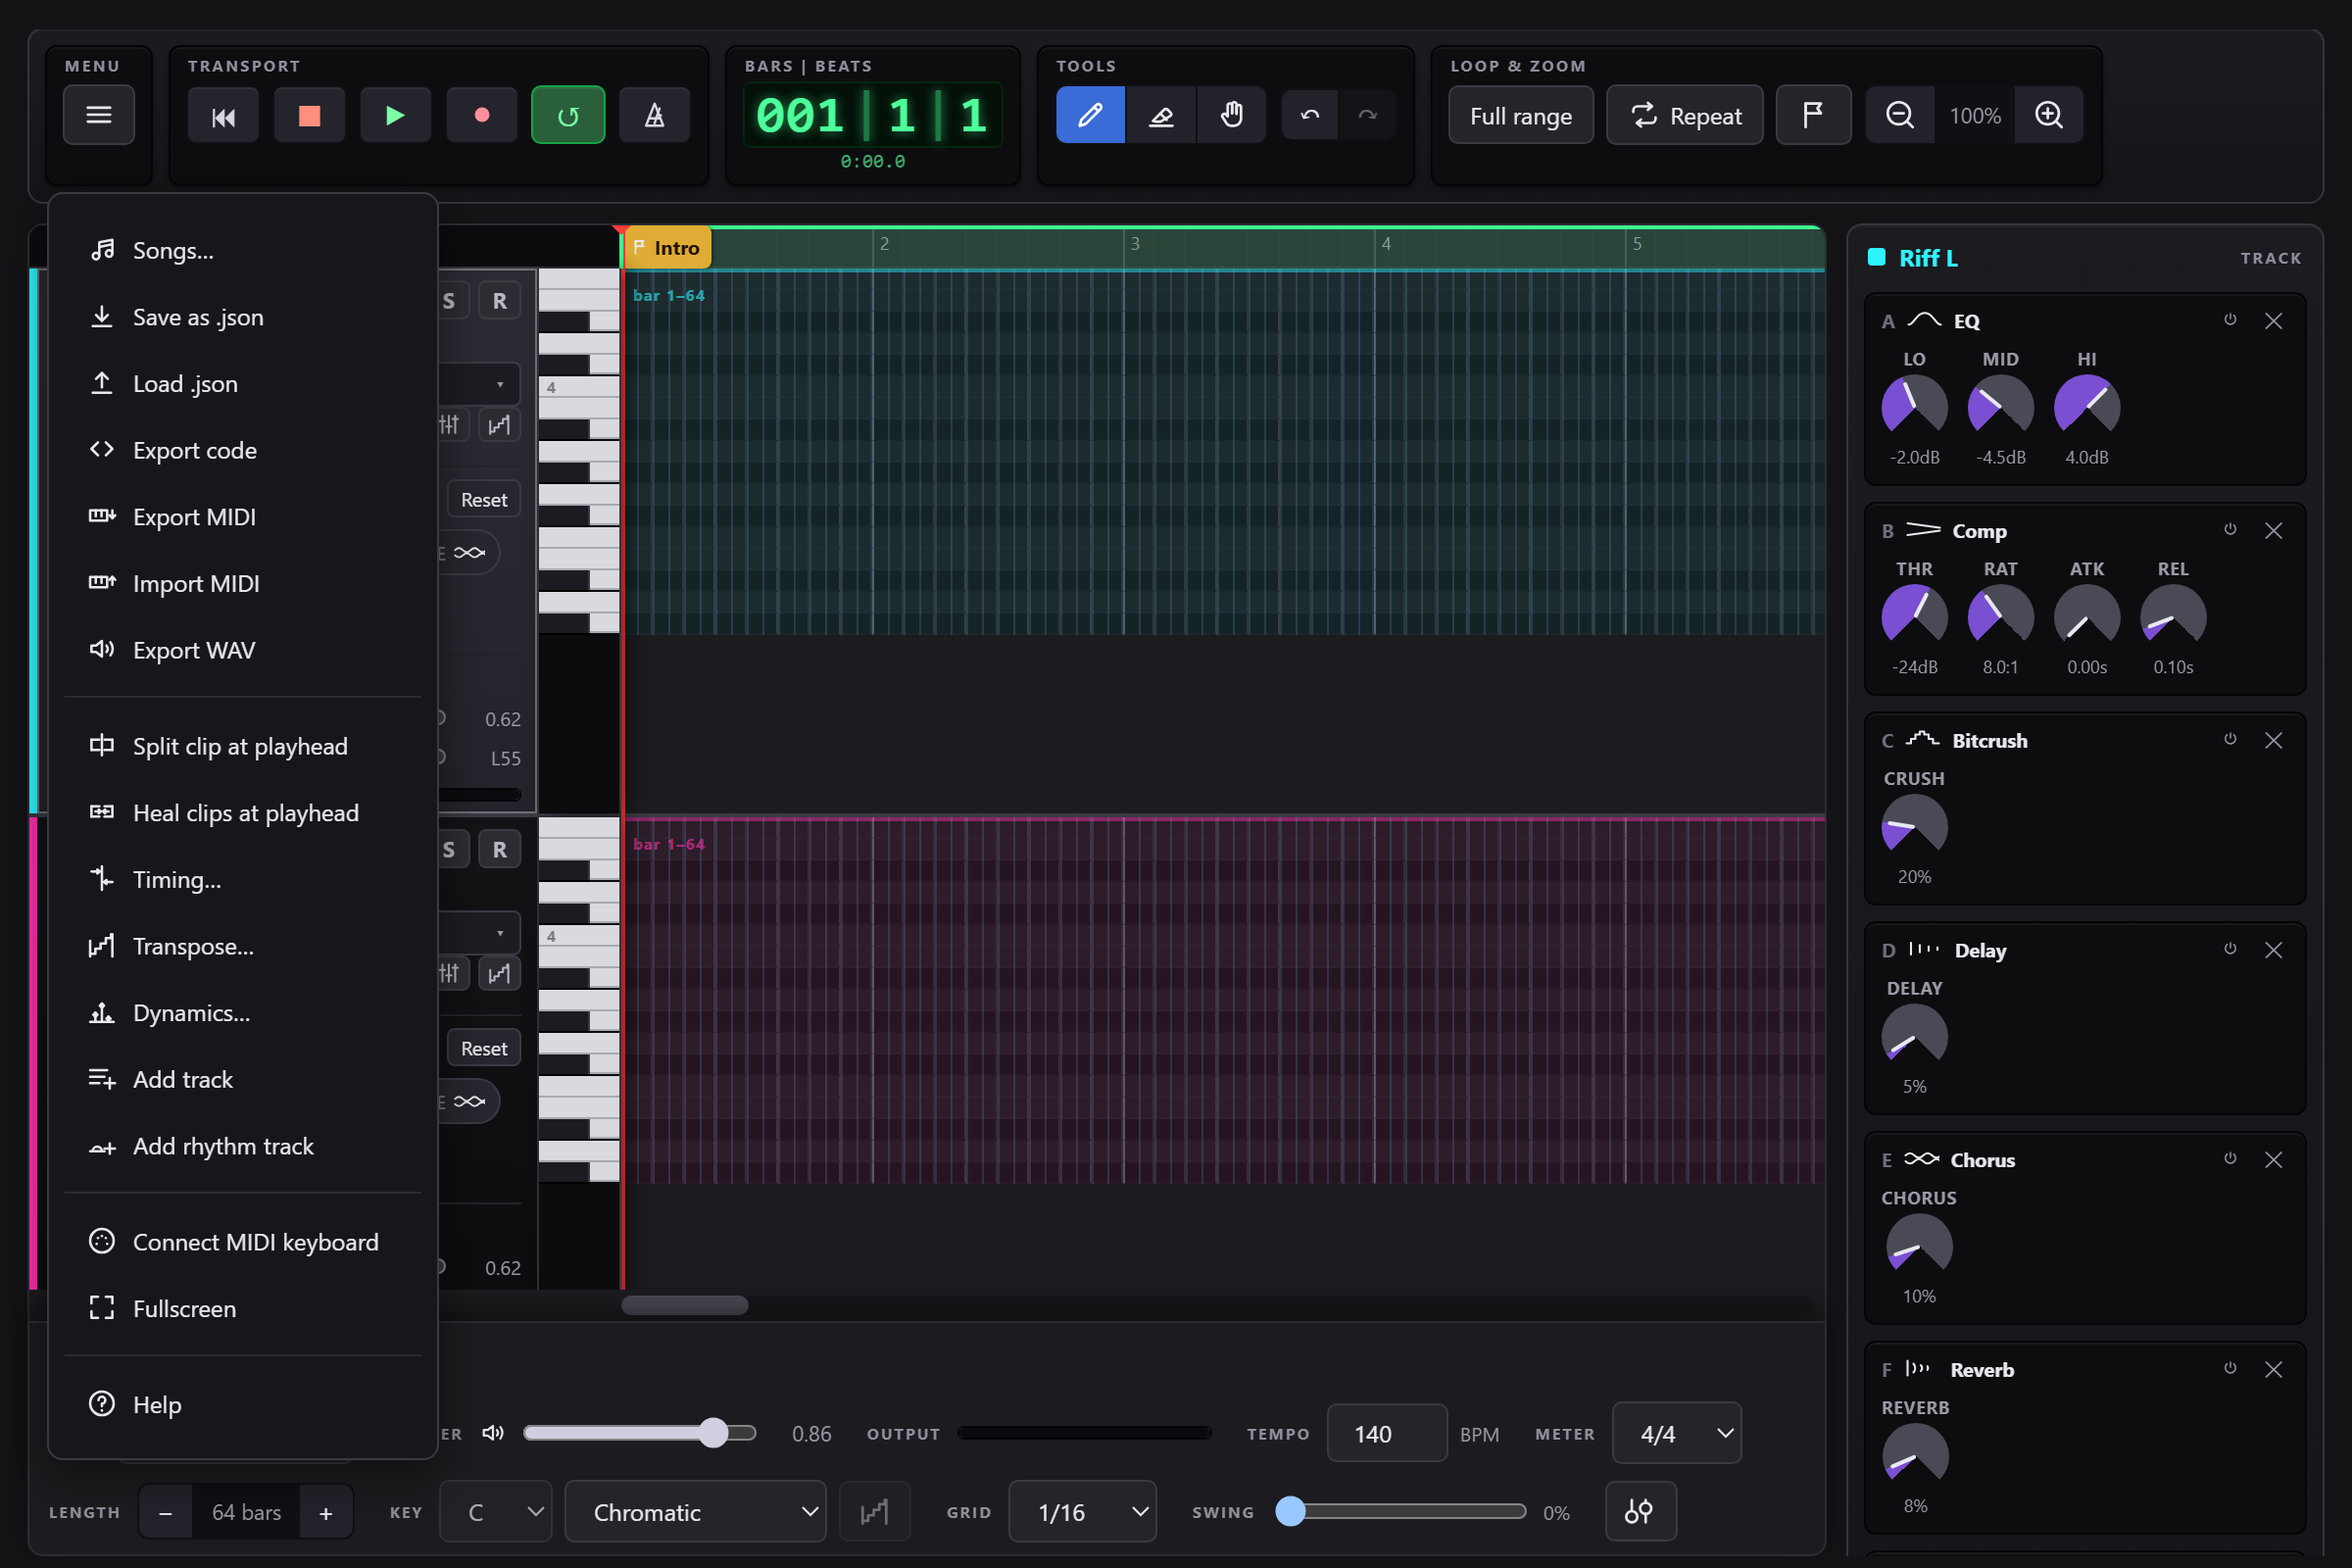
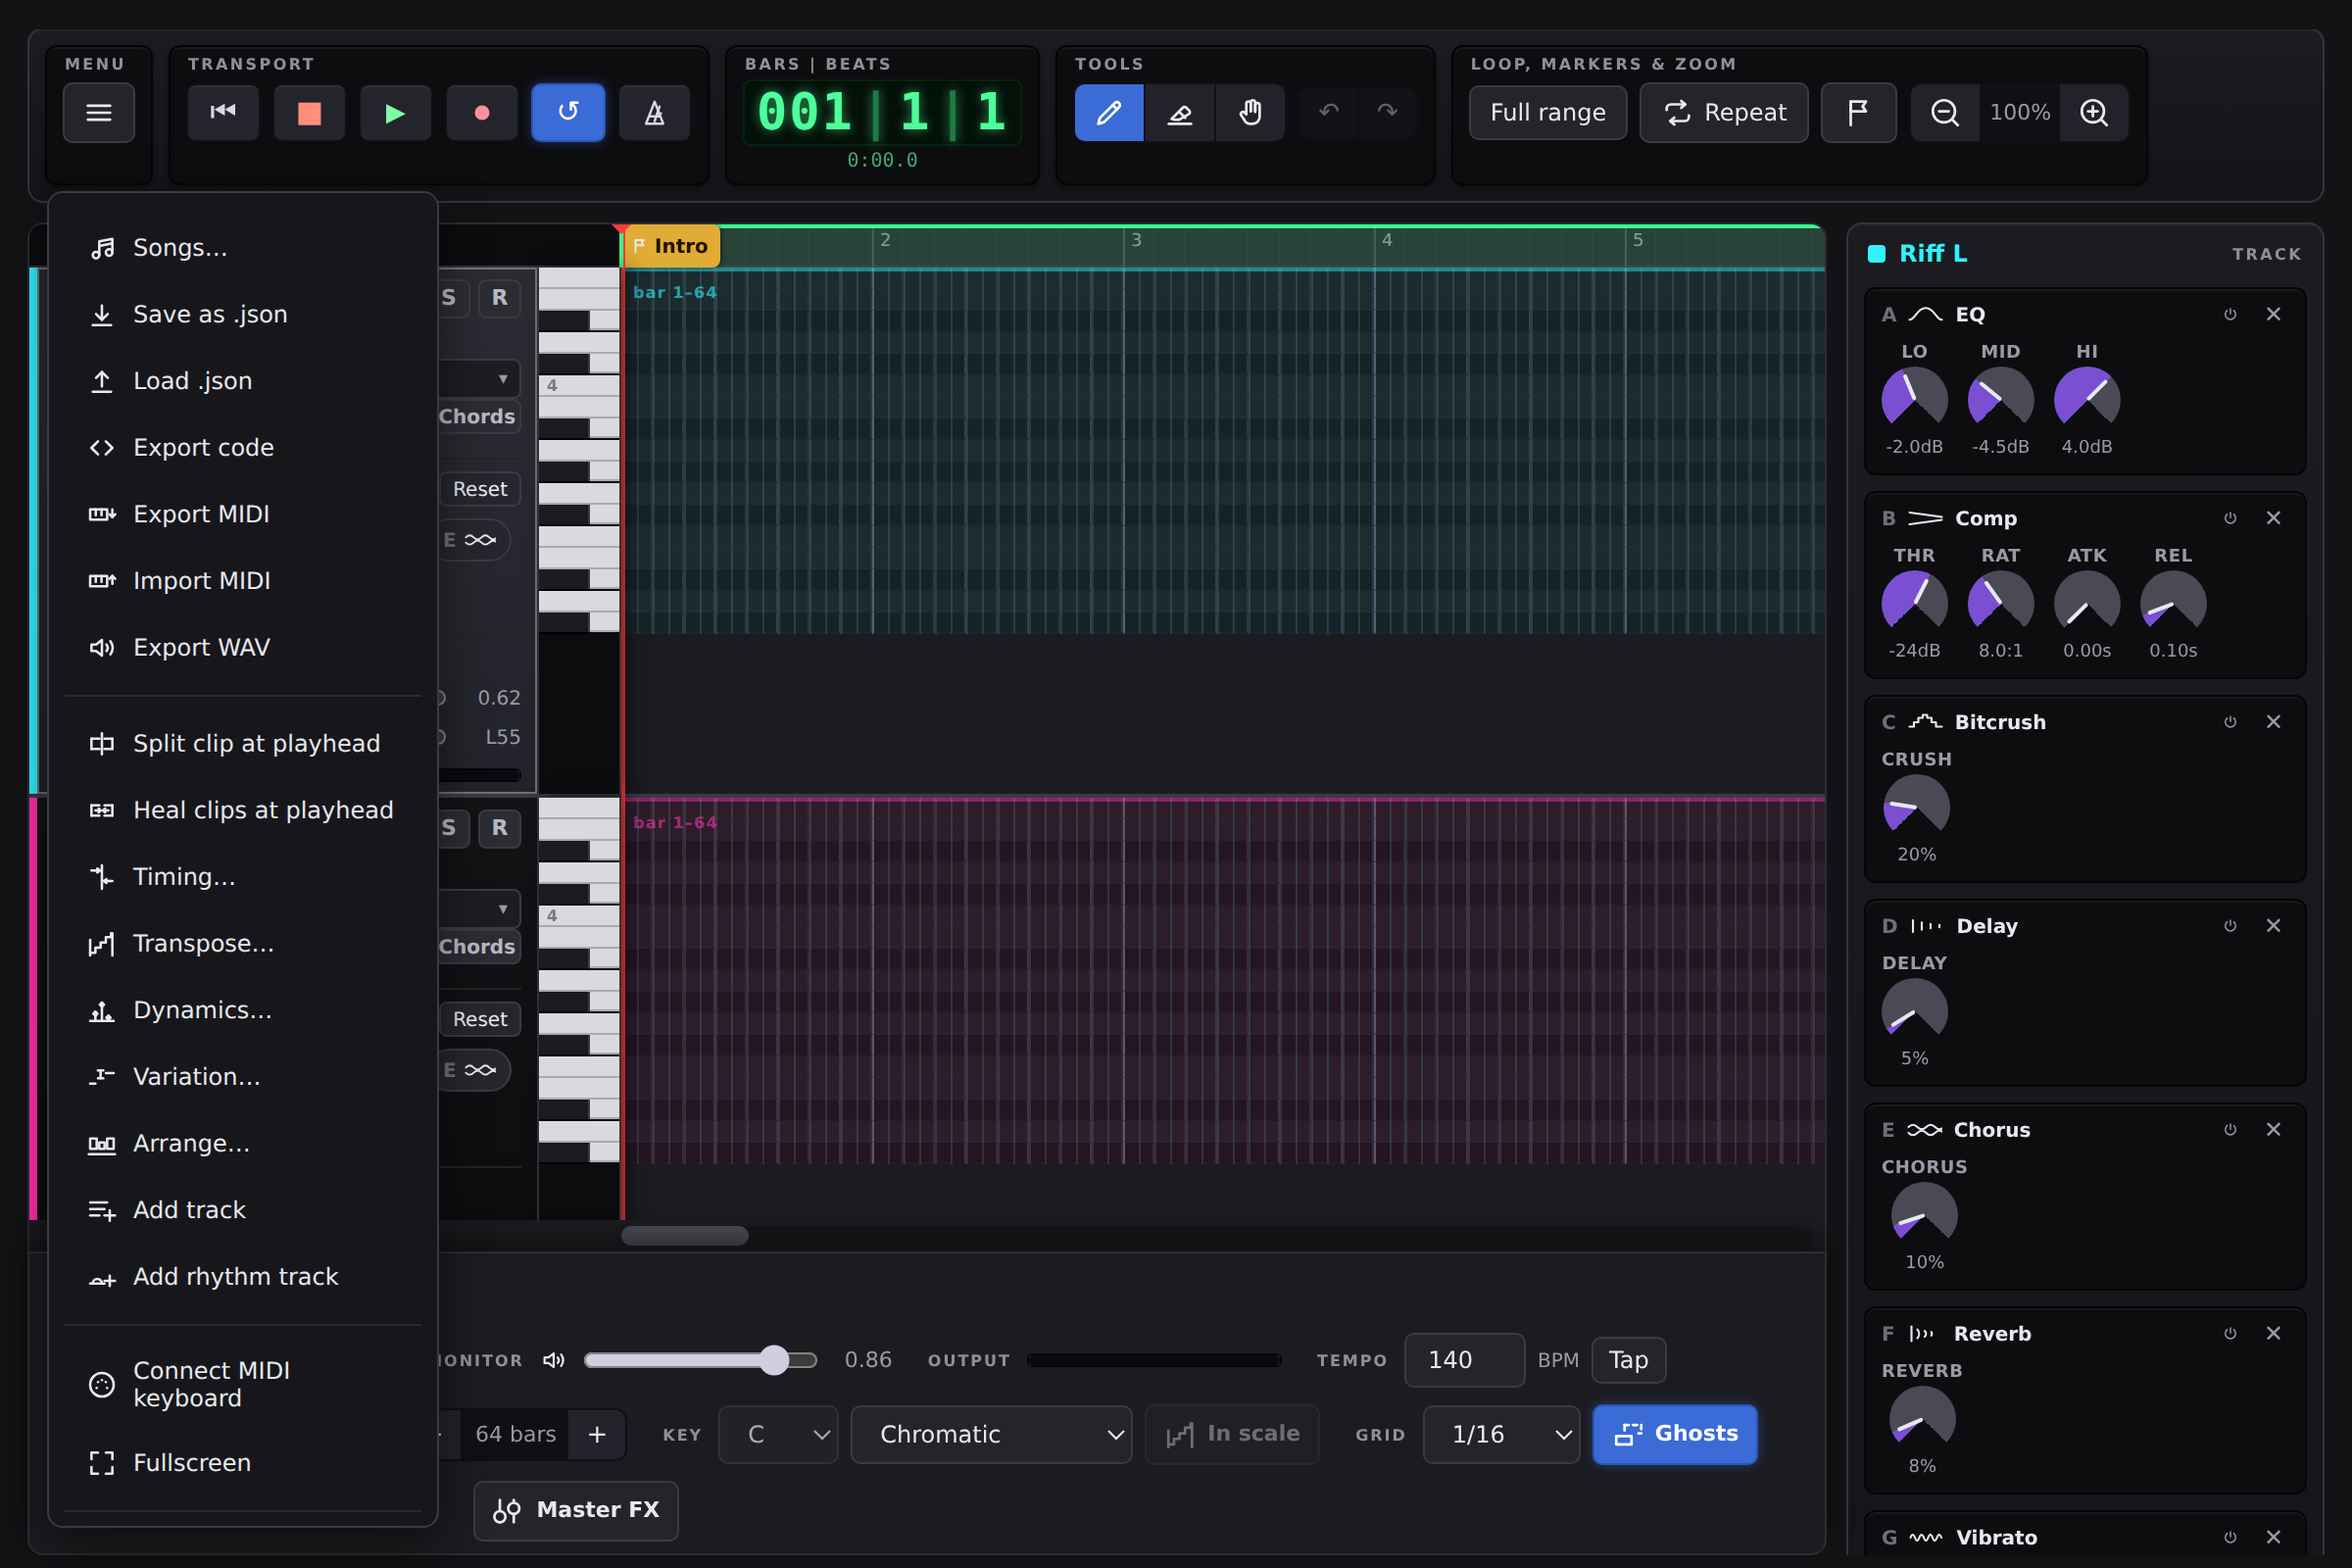
Re-shoot screenshots for the UI review changes
The help menu shot was missing Variation and Arrange; every shot with a
track header or the bottom bar showed the old labels and colours.

Claude-Session: https://claude.ai/code/session_01PGNL3anWbAGwcymw9qZ1Yu

diff --git a/DONE.md b/DONE.md
@@ -59,12 +59,17 @@ dialogerna) och bör göras tillsammans.
   texten nu är namnet, så namn och etikett inte kan gå isär.
 - [x] **Småsaker.** Inserts *Reset* döljs när racket är tomt. Gruppen
   "Loop & Zoom" heter "Loop, markers & zoom".
+- [x] **Skärmbilderna tagna om** (`node shots.js`) — `menu-open.png` saknade
+  Variation och Arrange, och alla bilder med spårhuvud eller bottenrad visade
+  de gamla etiketterna och färgerna.
 
 Verify: ett nytt steg (*Track header: Chords and Patterns are named, and
 every row under it closes from one corner*) kontrollerar verktygsradens
 etiketter på båda spårsorterna, att Chords inte delar glyf med Keep to scale,
 att alla tre ✕ är små och sitter i hörnet, att Env-rubriken nämner Arpeggio
-och att Reset bara syns med inserts. Kört mot gammal kod: rött.
+och att Reset bara syns med inserts. Kört mot gammal kod: rött. Hela sviten:
+155 gröna, ett rött — Overdub, som spelar in i realtid runt en loop och föll
+under last; ensamt grönt tre gånger av tre, och inget här rör inspelningen.
 
 ## Punkter från CoPilot GitHub
 

diff --git a/TODO.md b/TODO.md
@@ -14,7 +14,7 @@ verktygspaneler (skärmbilder i 1440×900 av startlayouten och en laddad låt,
 plus koden). Notinspektorn gjordes om i samma omgång, se `DONE.md`. Inte
 granskat: redigeraren i mobilläge, MIDI-import och exportflödena. Ordnat
 efter allvar. Felet, ikon- och färgpunkterna, raderna under spårhuvudet,
-bottenraden och småsakerna är gjorda (se `DONE.md`); kvar är de som ändrar
+bottenraden, småsakerna och menybilden är gjorda (se `DONE.md`); kvar är de som ändrar
 flöden — spara, osparat arbete, menyns uppdelning, dialogerna — och som
 därför hänger ihop med varandra.
 
@@ -44,8 +44,6 @@ därför hänger ihop med varandra.
   designmotivering ("this is the third axis…"). Förslag: samma mönster i alla
   fyra — räckviddsraden, sedan per handling reglage + knapp + en kort rad —
   och motiveringarna till hjälpen.
-- [ ] **Hjälpens menybild är inaktuell** — `menu-open.png` saknar Variation
-  och Arrange. Tas om med `node shots.js --only menu-open`.
 
 ## Arrangering, uppföljning
 
